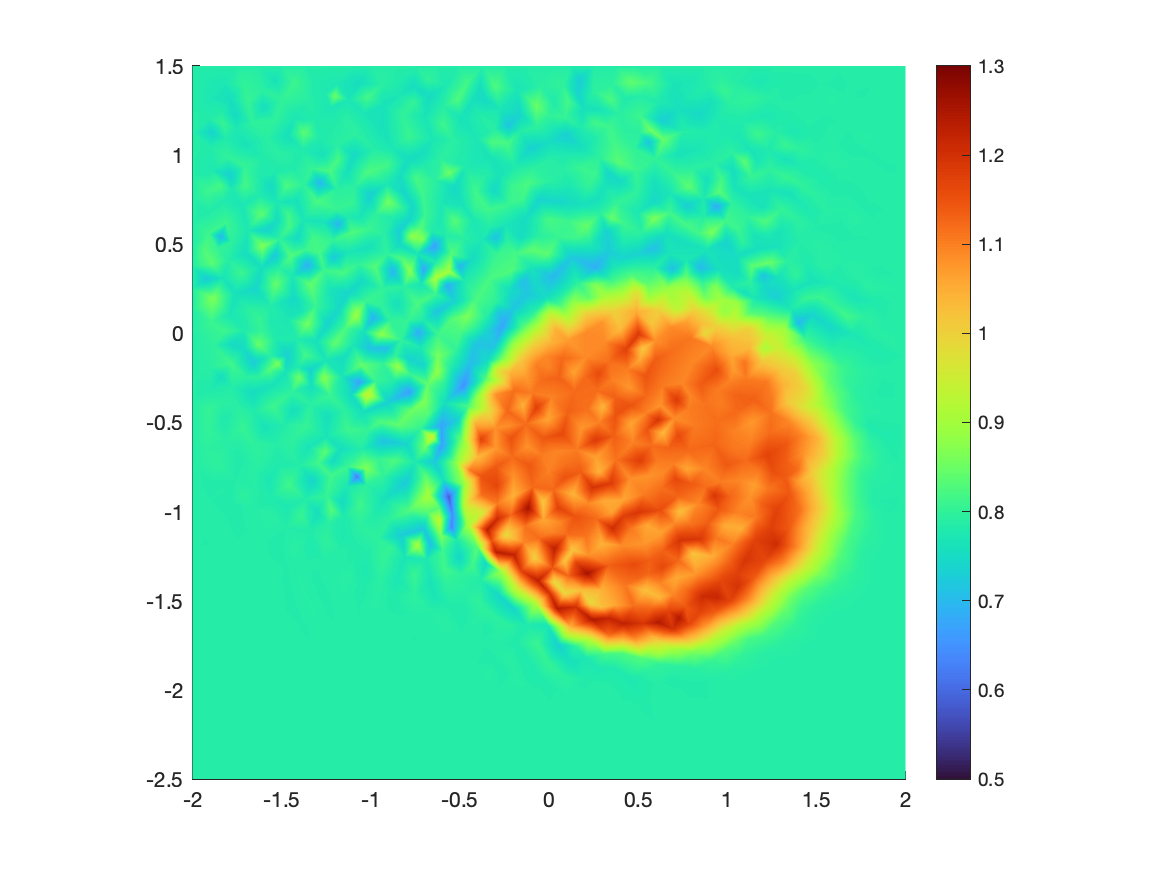
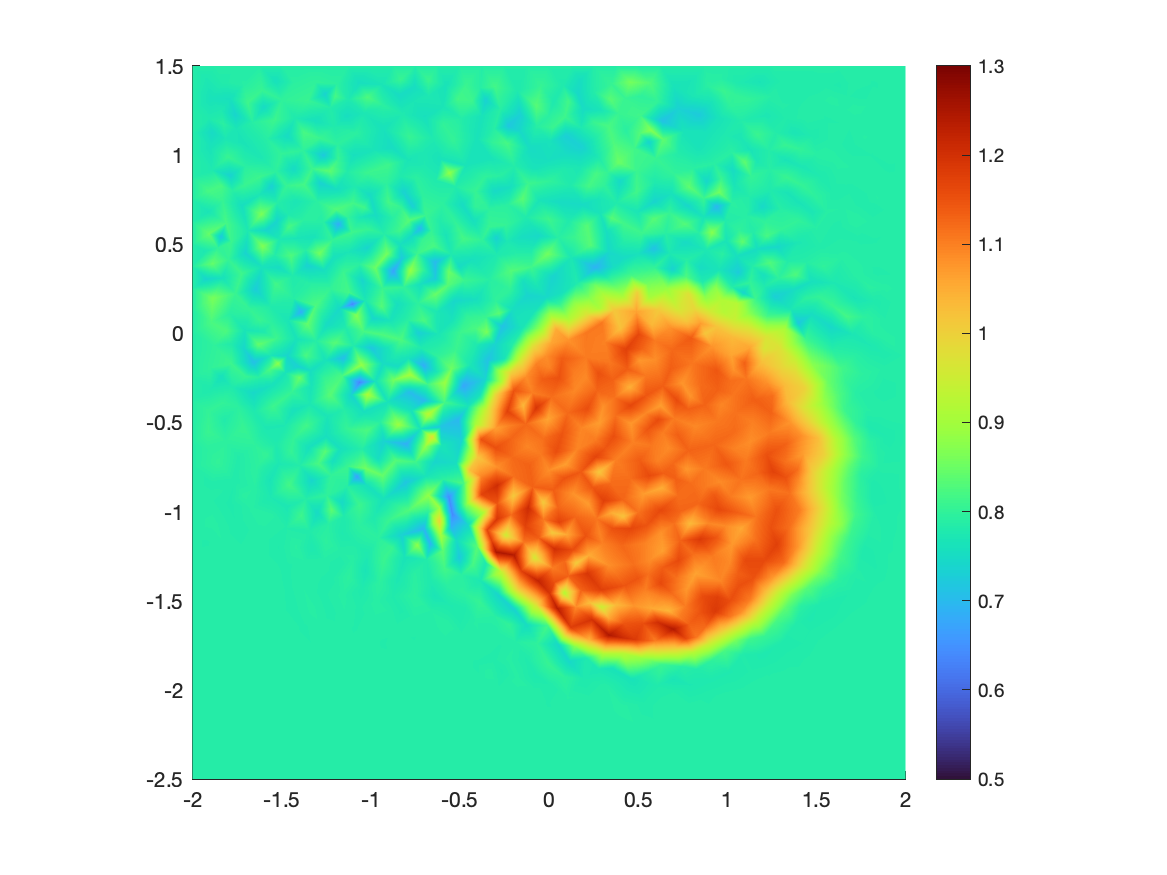
Add files via upload

diff --git a/RV.m b/RV.m
@@ -3,7 +3,7 @@ close all;
 clear;
 
 g = Rectg(-2,-2.5,2,1.5);
-hmax = 1/16;
+hmax = 1/8;
 [p,e,t] = initmesh(g,'hmax',hmax);
 % get the trangular elements of the domain
 
@@ -12,44 +12,56 @@ u = zeros(n,1);
 for i = 1:n
     u(i,1) = u_initial(p(1,i),p(2,i));
 end
-% initial condition
 
 CFL = 0.5;
 T = 1;
 
-nt = size(t,2);
-eps = zeros(nt,1);
-Cvel = 0.25;
-Crv = 1.0;
-
-up = u;
-Res = zeros(n,1);
-time = 0;
-
 R = ReactMat2D(p,t);
-
 
 bx1 = cos(u);
 bx2 = -sin(u);
 % vector field f'(u)
 nor = max(sqrt(bx1.^2+bx2.^2));
-k = CFL*hmax/nor;
+k = CFL*hmax;
+%%%%%%%%%%%%%%%%%%%%%%%%%%%%%%%%
 C = ConvectMat2D(p,t,bx1,bx2);
-LH = R/k+C/2;
-RH = (R/k-C/2)*u;
-I = eye(length(p));
-LH(e(1,:),:) = I(e(1 ,:) ,:); 
-RH(e(1 ,:)) = pi/4;
+LH = R;
+RH = -C;
+A_r = LH\RH;
+w1 = A_r*u;
+bx1 = cos(u+k/2*w1);  bx2 = -sin(u+k/2*w1);
+C = ConvectMat2D(p,t,bx1,bx2);
+RH = -C;
+A_r = LH\RH;
+w2 = A_r*(u+k/2*w1);
+bx1 = cos(u+k/2*w2);  bx2 = -sin(u+k/2*w2);
+C = ConvectMat2D(p,t,bx1,bx2);
+RH = -C;
+A_r = LH\RH;
+w3 = A_r*(u+k/2*w2); 
+bx1 = cos(u+k*w3);  bx2 = -sin(u+k*w3);
+C = ConvectMat2D(p,t,bx1,bx2);
+RH = -C;
+A_r = LH\RH;
+w4 = A_r*(u+k*w3);
+w = w1+2*w2+2*w3+w4;
+w(e(1,:)) = 0;
 up = u;
-u = LH\RH;
+u = u + k/6*w;
+   
 time = k;
 k_l = k;
+
+nt = size(t,2);
+eps = zeros(nt,1);
+Cvel = 0.25;
+Crv = 1.0;
+Res = zeros(n,1);
 
 while time<T
     bx1 = cos(u);
     bx2 = -sin(u);
     % vector field f'(u)
-
     nor = max(sqrt(bx1.^2+bx2.^2));
     k = CFL*hmax/nor;
     % Time steps
@@ -58,17 +70,37 @@ while time<T
     end
 
     %%%%%%%%%%%%%%%%%%%%%%%%%%%%%%%%
+    LH = R;
     ResidualMatrix;
-    k_l = k;
-    LH = R/k+C/2+A/2;
-    RH = (R/k-C/2-A/2)*u;
-    I = eye(length(p));
-    LH(e(1,:),:) = I(e(1 ,:) ,:); 
-    RH(e(1 ,:)) = pi/4;
+    RH = -(C+A);
+    A_r = LH\RH;
+    w1 = A_r*u;
+    
+    bx1 = cos(u+k/2*w1);  bx2 = -sin(u+k/2*w1);
+    C = ConvectMat2D(p,t,bx1,bx2);
+    RH = -(C+A);
+    A_r = LH\RH;
+    w2 = A_r*(u+k/2*w1);
+
+    bx1 = cos(u+k/2*w2);  bx2 = -sin(u+k/2*w2);
+    C = ConvectMat2D(p,t,bx1,bx2);
+    RH = -(C+A);
+    A_r = LH\RH;
+    w3 = A_r*(u+k/2*w2); 
+
+    bx1 = cos(u+k*w3);  bx2 = -sin(u+k*w3);
+    C = ConvectMat2D(p,t,bx1,bx2);
+    RH = -(C+A);
+    A_r = LH\RH;
+    w4 = A_r*(u+k*w3);
+
+    w = w1+2*w2+2*w3+w4;
+    w(e(1,:)) = 0;
     up = u;
-    u = LH\RH;
+    u = u + k/6*w;
+    k_l = k;
     %%%%%%%%%%%%%%%%%%%%%%%%%%%%%%%%
-    %%%%%%%% Crank-Nicolson %%%%%%%%
+    %%%%%%%%%%%%% RK4 %%%%%%%%%%%%%%
     time = time+k;
 end
 
@@ -76,4 +108,4 @@ pdeplot(p,e,t,"XYData",u);
 pbaspect([1 1 1]);
 caxis([0.5 1.3]);
 colormap turbo;
-saveas(gcf,"T21RVh16.png");
+saveas(gcf,"T22RVh8.png");

diff --git a/GLS.m b/GLS.m
@@ -3,7 +3,7 @@ close all;
 clear;
 
 g = Rectg(-2,-2.5,2,1.5);
-hmax = 1/16;
+hmax = 1/8;
 [p,e,t] = initmesh(g,'hmax',hmax);
 % get the trangular elements of the domain
 
@@ -25,27 +25,50 @@ while time<T
     bx2 = -sin(u);
     % vector field f'(u)
     nor = max(sqrt(bx1.^2+bx2.^2));
-    k = CFL*hmax/nor; 
+    k = CFL*hmax;
     tau = ((2/k)^2+(2*nor/hmax)^2)^(-1/2);
-    
     % Time steps
     if time+k>T
         k=T-time;
     end
-
-    C = ConvectMat2D(p,t,bx1,bx2);
-    S = SDAssembler2D(p,t,bx1,bx2); 
     
     %%%%%%%%%%%%%%%%%%%%%%%%%%%%%%%%
-    LH = R/k+C'*tau/k+1/2*C+S*tau/2;
-    RH = R/k+C'*tau/k-1/2*C-S*tau/2;
-    RH = RH*u;
-    I = eye(length(p));
-    LH(e(1,:),:) = I(e(1 ,:) ,:); 
-    RH(e(1 ,:)) = pi/4;
-    u = LH\RH;
+    C = ConvectMat2D(p,t,bx1,bx2);
+    S = SDAssembler2D(p,t,bx1,bx2); 
+    LH = R+tau*C';
+    RH = -(C+tau*S);
+    A =  LH\RH;
+    w1 = A*u;
+     
+    bx1 = cos(u+k/2*w1);    bx2 = -sin(u+k/2*w1);
+    C = ConvectMat2D(p,t,bx1,bx2);
+    S = SDAssembler2D(p,t,bx1,bx2); 
+    LH = R+tau*C';
+    RH = -(C+tau*S);
+    A =  LH\RH;
+    w2 = A*(u+k/2*w1);
+
+    bx1 = cos(u+k/2*w2);    bx2 = -sin(u+k/2*w2);
+    C = ConvectMat2D(p,t,bx1,bx2);
+    S = SDAssembler2D(p,t,bx1,bx2); 
+    LH = R+tau*C';
+    RH = -(C+tau*S);
+    A =  LH\RH;
+    w3 = A*(u+k/2*w2);
+
+    bx1 = cos(u+k*w3);      bx2 = -sin(u+k*w3);
+    C = ConvectMat2D(p,t,bx1,bx2);
+    S = SDAssembler2D(p,t,bx1,bx2); 
+    LH = R+tau*C';
+    RH = -(C+tau*S);
+    A =  LH\RH;
+    w4 = A*(u+k*w3);
+
+    w = w1+2*w2+2*w3+w4;
+    w(e(1,:)) = 0;
+    u = u + k/6*w;
     %%%%%%%%%%%%%%%%%%%%%%%%%%%%%%%%
-    %%%%%%%% Crank-Nicolson %%%%%%%%
+    %%%%%%%%%%%%% RK4 %%%%%%%%%%%%%%
     time = time+k;
 end
 
@@ -53,4 +76,7 @@ pdeplot(p,e,t,"XYData",u);
 pbaspect([1 1 1]);
 caxis([0.5 1.3]);
 colormap turbo;
-saveas(gcf,"T21GLSh16.png");
+saveas(gcf,"T22GLSh8.png");
+
+
+

diff --git a/GFEM_solver.m b/GFEM_solver.m
@@ -3,7 +3,7 @@ close all;
 clear;
 
 g = Rectg(-2,-2.5,2,1.5);
-hmax = 1/16;
+hmax = 1/8;
 [p,e,t] = initmesh(g,'hmax',hmax);
 % get the trangular elements of the domain
 
@@ -12,6 +12,7 @@ u = zeros(n,1);
 for i = 1:n
     u(i,1) = u_initial(p(1,i),p(2,i));
 end
+
 CFL = 0.5;
 T = 1;
 
@@ -22,29 +23,48 @@ while time<T
     bx2 = -sin(u);
     % vector field f'(u)
 
-    C = ConvectMat2D(p,t,bx1,bx2);
     nor = max(sqrt(bx1.^2+bx2.^2));
     k = CFL*hmax/nor;
-
     % Time steps
     if time+k>T
         k=T-time;
     end
-
-    %%%%%%%%%%%%%%%%%%%%%%%%%%%%%%%%   
-    LH = R/k+C/2;
-    RH = (R/k-C/2)*u;
-    I = eye(length(p));
-    LH(e(1,:),:) = I(e(1 ,:) ,:); 
-    RH(e(1 ,:)) = pi/4;
-    u = LH\RH;
+    
     %%%%%%%%%%%%%%%%%%%%%%%%%%%%%%%%
-    %%%%%%%% Crank-Nicolson %%%%%%%%
+    C = ConvectMat2D(p,t,bx1,bx2);
+    A = -R\C;
+    w1 = A*u;
+
+    bx1 = cos(u+k/2*w1);  bx2 = -sin(u+k/2*w1);
+    C = ConvectMat2D(p,t,bx1,bx2);
+    A = -R\C;
+    w2 = A*(u+k/2*w1);
+
+    bx1 = cos(u+k/2*w2);  bx2 = -sin(u+k/2*w2);
+    C = ConvectMat2D(p,t,bx1,bx2);
+    A = -R\C;
+    w3 = A*(u+k/2*w2);
+
+    bx1 = cos(u+k*w3);  bx2 = -sin(u+k*w3);
+    C = ConvectMat2D(p,t,bx1,bx2);
+    A = -R\C;
+    w4 = A*(u+k*w3);
+
+    w = w1+2*w2+2*w3+w4;
+    w(e(1,:)) = 0;
+    u = u + k/6*w;
+    %%%%%%%%%%%%%%%%%%%%%%%%%%%%%%%%
+    %%%%%%%%%%%%% RK4 %%%%%%%%%%%%%%
     time = time+k;
 end
+
 
 pdeplot(p,e,t,"XYData",u); 
 pbaspect([1 1 1]);
 caxis([0.5 1.3]);
 colormap turbo;
-saveas(gcf,"T21GFEMh16.png");
+saveas(gcf,"T22GFEMh8.png");
+
+
+
+
